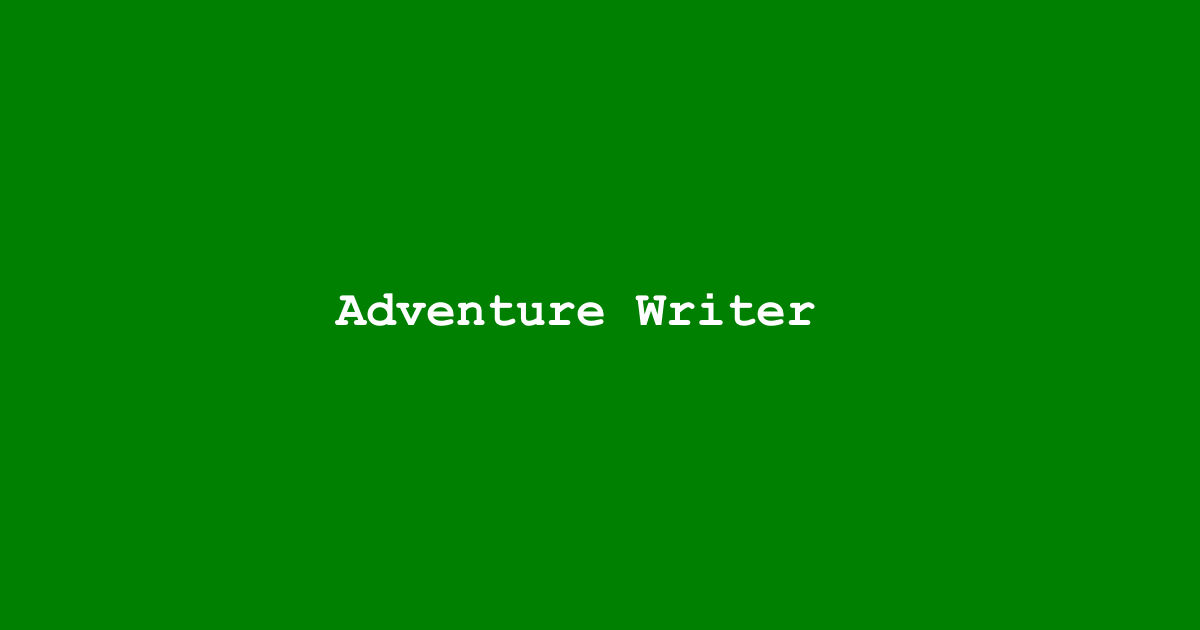
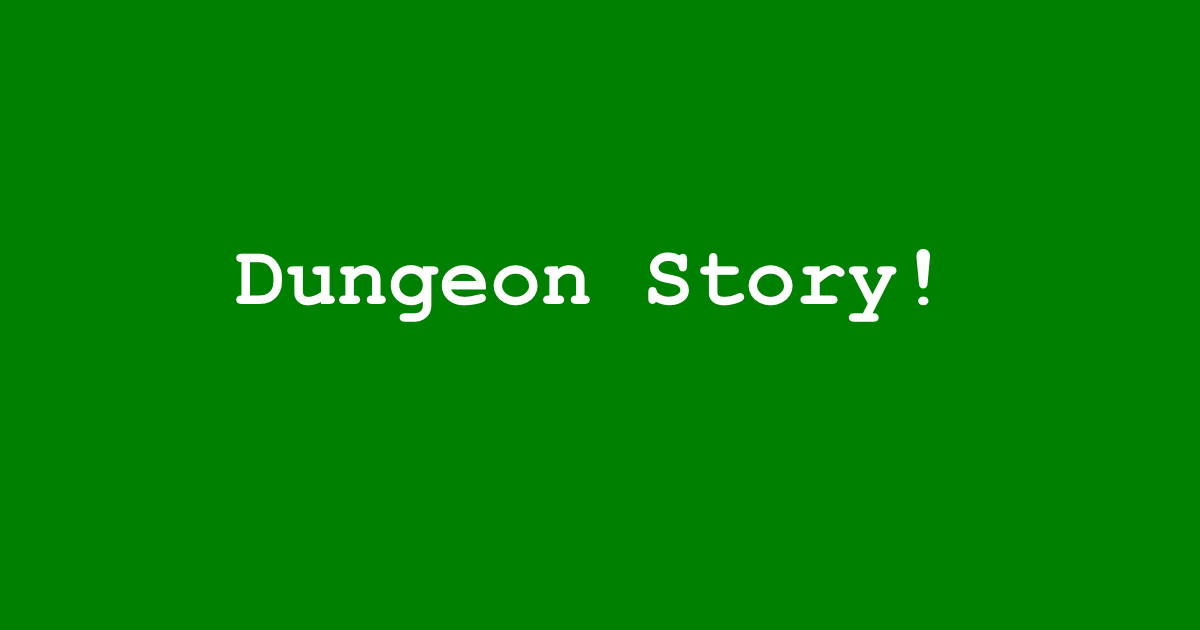
rebrand

Changed region(s): [[0.185, 0.3921, 0.8017, 0.5429]]

diff --git a/public/index.html b/public/index.html
@@ -5,30 +5,30 @@
     <meta http-equiv="X-UA-Compatible" content="IE=edge">
     <!-- meta tags -->
     <meta name="viewport" content="width=device-width,initial-scale=1.0">
-    <meta name="description" content="Are choose your own adventures too hard for you? Let Adventure Writer make the choices for you!" />
+    <meta name="description" content="Are choose your own adventures too hard for you? Let dungeonstory.com make the choices for you!" />
     <meta name="author" content="">
     <meta name="keywords" content="example, example2">
     <!-- Twitter cards -->
     <meta name="twitter:card" content="summary_large_image">
-    <meta name="twitter:site" content="https://adventure-writer.netlify.app">
-    <meta name="twitter:title" content="Adventure Writer">
-    <meta name="twitter:image" content="https://adventure-writer.netlify.app/share-img.png">
-    <meta name="twitter:description" content="Are choose your own adventures too hard for you? Let Adventure Writer make the choices for you!">
+    <meta name="twitter:site" content="https://dungeonstory.com">
+    <meta name="twitter:title" content="Dungeon Story">
+    <meta name="twitter:image" content="https://dungeonstory.com/share-img.png">
+    <meta name="twitter:description" content="Are choose your own adventures too hard for you? Let dungeonstory.com make the choices for you!">
     <meta name="twitter:creator" content="@kravse">
 
     <!-- Open Graph data / FB -->
-    <meta property="og:title" content="Adventure Writer" />
+    <meta property="og:title" content="Dungeon Story" />
     <meta property="og:type" content="website" />
-    <meta property="og:url" content="https://adventure-writer.netlify.app" />
-    <meta property="og:image" content="https://adventure-writer.netlify.app/share-img.png" />
+    <meta property="og:url" content="https://dungeonstory.com" />
+    <meta property="og:image" content="https://dungeonstory.com/share-img.png" />
     <meta property="og:image:width" content="1200">
     <meta property="og:image:height" content="630">
-    <meta property="og:description" content="Are choose your own adventures too hard for you? Let Adventure Writer make the choices for you!" />
+    <meta property="og:description" content="Are choose your own adventures too hard for you? Let dungeonstory.com make the choices for you!" />
     <meta property="og:site_name" content="" />
 
     <!-- <link rel="canonical" href="" /> -->
     <link rel="icon" type="image/png" href="./favicon.png" width=32px>
-    <title>Adventure Writer</title>
+    <title>Dungeon Story</title>
   </head>
   <body>
     <noscript>

diff --git a/src/views/home/home.vue b/src/views/home/home.vue
@@ -1,8 +1,8 @@
 <template>
   <div class="home">
     <div class="story">
-      <h1>Adventure Writer</h1>
-      <h4>Are choose your own adventures too hard for you? Let Adventure Writer make the choices for you!</h4>
+      <h1>Dungeon Story</h1>
+      <h4>Are choose your own adventures too hard for you? Let dungeonstory.com make the choices for you!</h4>
       <p class="prompt">
         {{story}}<span v-if="updated">{{updated}}</span><span class="typing" v-if="!typing">...</span>
       </p>
